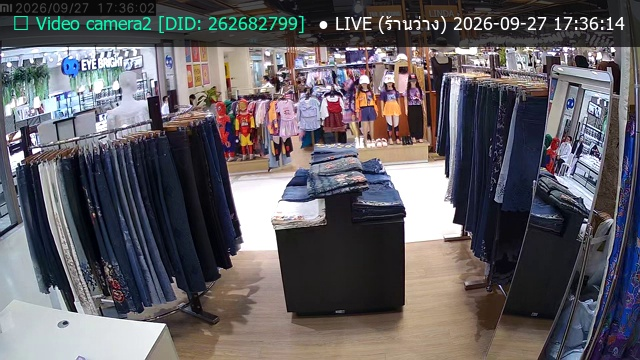
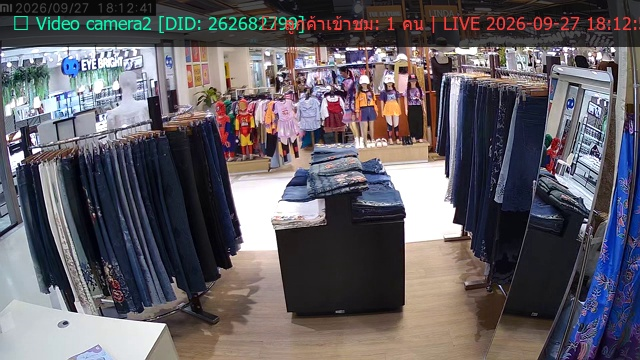
Fix floor boundaries (cy >= 0.48), fitting room zone, and video stream continuity

diff --git a/live_stream_daemon.py b/live_stream_daemon.py
@@ -146,11 +146,17 @@ class CameraWorker(threading.Thread):
                 smoothed_person_count = 0
                 recent_boxes = []
 
+                fail_count = 0
                 while not self.stop_requested:
                     ret, raw_frame = cap.read()
                     if not ret or raw_frame is None:
-                        logger.warning(f"Frame drop on {self.camera_name}. Reconnecting...")
-                        break
+                        fail_count += 1
+                        if fail_count >= 15:
+                            logger.warning(f"Continuous frame drops ({fail_count}) on {self.camera_name}. Reconnecting...")
+                            break
+                        time.sleep(0.05)
+                        continue
+                    fail_count = 0
 
                     now = time.time()
 
@@ -169,8 +175,9 @@ class CameraWorker(threading.Thread):
                                 cx = (xyxy[0] + xyxy[2]) / (2.0 * w)
                                 cy = (xyxy[1] + xyxy[3]) / (2.0 * h)
                                 
-                                # Store front camera (262682799): ignore top mall corridor & mannequins
-                                if self.did == "262682799" and cy < 0.35:
+                                # Store front camera (262682799): ignore top mall corridor (white tiles cy < 0.48)
+                                # Only detect customers who actually walk onto the dark wood store floor (cy >= 0.48)
+                                if self.did == "262682799" and cy < 0.48:
                                     continue
                                 filtered_boxes.append((b, cx, cy, xyxy))
                                 
@@ -307,9 +314,11 @@ class CameraWorker(threading.Thread):
                             h, w = raw_frame.shape[:2]
                             self.video_writer = H264VideoWriter(clip_path, w, h, fps=15)
 
-                        # Write frame to video
-                        if self.video_writer is not None:
-                            self.video_writer.write_frame(display_frame)
+                        # Write frame to video (re-instantiate writer if it was None during active session)
+                        if self.video_writer is None:
+                            h, w = raw_frame.shape[:2]
+                            self.video_writer = H264VideoWriter(self.active_session["clip_path"], w, h, fps=15)
+                        self.video_writer.write_frame(display_frame)
 
                         # 3. Controlled Milestone Snapshots (Only at 5s, 15s, 30s, 60s - Max 4 photos! NO INFINITE SNAPSHOTS!)
                         elapsed_sec = int(now - self.session_start_time)
@@ -323,10 +332,11 @@ class CameraWorker(threading.Thread):
                                 session_mgr.add_snapshot_to_session(self.active_session["id"], extra_snap_path)
                                 logger.info(f"📸 Captured milestone snapshot at {m}s for {self.active_session['party_code']}")
 
-                        # 4. Fitting Room Detection (Curtain & Mirror zone right side cx >= 0.70, cy >= 0.25)
+                        # 4. Fitting Room Detection (Curtain & Mirror zone strictly on the right edge cx >= 0.86, cy >= 0.45)
+                        # Center jeans folding table is at 0.45 <= cx <= 0.82; it is NOT the fitting room!
                         if self.active_session is not None:
                             for b, cx, cy in customer_boxes:
-                                if ((cx >= 0.70 and cy >= 0.25) or (cx >= 0.65 and cy >= 0.40)) and not self.active_session.get("entered_fitting_room"):
+                                if cx >= 0.86 and cy >= 0.45 and not self.active_session.get("entered_fitting_room"):
                                     self.active_session["entered_fitting_room"] = True
                                     session_mgr.mark_fitting_room_entry(self.active_session["id"])
                                     logger.info(f"🚪 [FITTING ROOM] Customer {self.active_session['party_code']} entered fitting room (cx={cx:.2f}, cy={cy:.2f})!")
@@ -356,34 +366,47 @@ class CameraWorker(threading.Thread):
                             sess_id = self.active_session["id"]
                             party_code = self.active_session["party_code"]
                             
-                            session_mgr.close_session(sess_id, total_dwell_sec)
-                            logger.info(f"🏁 [CUSTOMER VISIT COMPLETED] {self.camera_name} session {party_code} closed. Dwell: {total_dwell_sec}s")
+                            # Strict fact dwell filter: If customer stayed < 8.0 seconds, discard as transient passer-by
+                            if total_dwell_sec < 8.0:
+                                logger.info(f"⏭ Skipping transient visit (<8s: {total_dwell_sec}s) for {party_code}")
+                                session_mgr.delete_session(sess_id)
+                                try:
+                                    if os.path.exists(self.active_session["clip_path"]):
+                                        os.remove(self.active_session["clip_path"])
+                                    if os.path.exists(self.active_session["snapshot_path"]):
+                                        os.remove(self.active_session["snapshot_path"])
+                                except Exception:
+                                    pass
+                            else:
+                                session_mgr.close_session(sess_id, total_dwell_sec)
+                                logger.info(f"🏁 [CUSTOMER VISIT COMPLETED] {self.camera_name} session {party_code} closed. Dwell: {total_dwell_sec}s")
 
-                            # Send Telegram alert for customers
-                            is_fitting = self.active_session.get("entered_fitting_room", False)
-                            desc = "ลูกค้าเข้าลองกางเกงในห้องลอง (ผ้าม่านขวาล่าง)" if is_fitting else f"ลูกค้าเข้าชมพื้นที่ {self.active_session.get('camera_name', self.camera_name)} (เดินชม)"
-                            send_telegram_alert({
-                                "party_code": party_code,
-                                "people_count": self.active_session["people_count"],
-                                "description": desc,
-                                "pants_touched": 1 if is_fitting else 0,
-                                "entered_fitting_room": is_fitting,
-                                "start_time": self.active_session["start_time"],
-                                "end_time": bkk_str(),
-                                "duration_minutes": round(total_dwell_sec / 60.0, 2)
-                            }, photo_path=self.active_session["snapshot_path"], video_path=self.active_session["clip_path"], is_exit_summary=True)
+                                # Send Telegram alert for customers
+                                is_fitting = self.active_session.get("entered_fitting_room", False)
+                                desc = "ลูกค้าเข้าลองกางเกงในห้องลอง (ผ้าม่านขวาล่าง)" if is_fitting else f"ลูกค้าเข้าชมพื้นที่ {self.active_session.get('camera_name', self.camera_name)} (เดินชม)"
+                                send_telegram_alert({
+                                    "party_code": party_code,
+                                    "people_count": self.active_session["people_count"],
+                                    "description": desc,
+                                    "pants_touched": 1 if is_fitting else 0,
+                                    "entered_fitting_room": is_fitting,
+                                    "start_time": self.active_session["start_time"],
+                                    "end_time": bkk_str(),
+                                    "duration_minutes": round(total_dwell_sec / 60.0, 2)
+                                }, photo_path=self.active_session["snapshot_path"], video_path=self.active_session["clip_path"], is_exit_summary=True)
+
+                                # Auto-sync fact database and clips to GitHub & Cloud
+                                auto_sync_to_github()
 
                             self.active_session = None
                             self.snapped_milestones.clear()
                             self.count_history.clear()
 
-                            # Auto-sync fact database and clips to GitHub & Cloud
-                            auto_sync_to_github()
-
                     time.sleep(0.04)
 
                 cap.release()
-                if self.video_writer is not None:
+                # Do NOT close video writer on stream reconnect unless daemon is stopping or session ended
+                if self.stop_requested and self.video_writer is not None:
                     self.video_writer.close()
                     self.video_writer = None
 

diff --git a/session_manager.py b/session_manager.py
@@ -302,6 +302,13 @@ class SessionManager:
         conn.commit()
         conn.close()
 
+    def delete_session(self, sess_id: int):
+        conn = sqlite3.connect(DB_PATH)
+        cursor = conn.cursor()
+        cursor.execute("DELETE FROM sessions WHERE id = ?", (sess_id,))
+        conn.commit()
+        conn.close()
+
     def delete_sessions_by_camera(self, camera_name_or_did: str):
         conn = sqlite3.connect(DB_PATH)
         cursor = conn.cursor()
